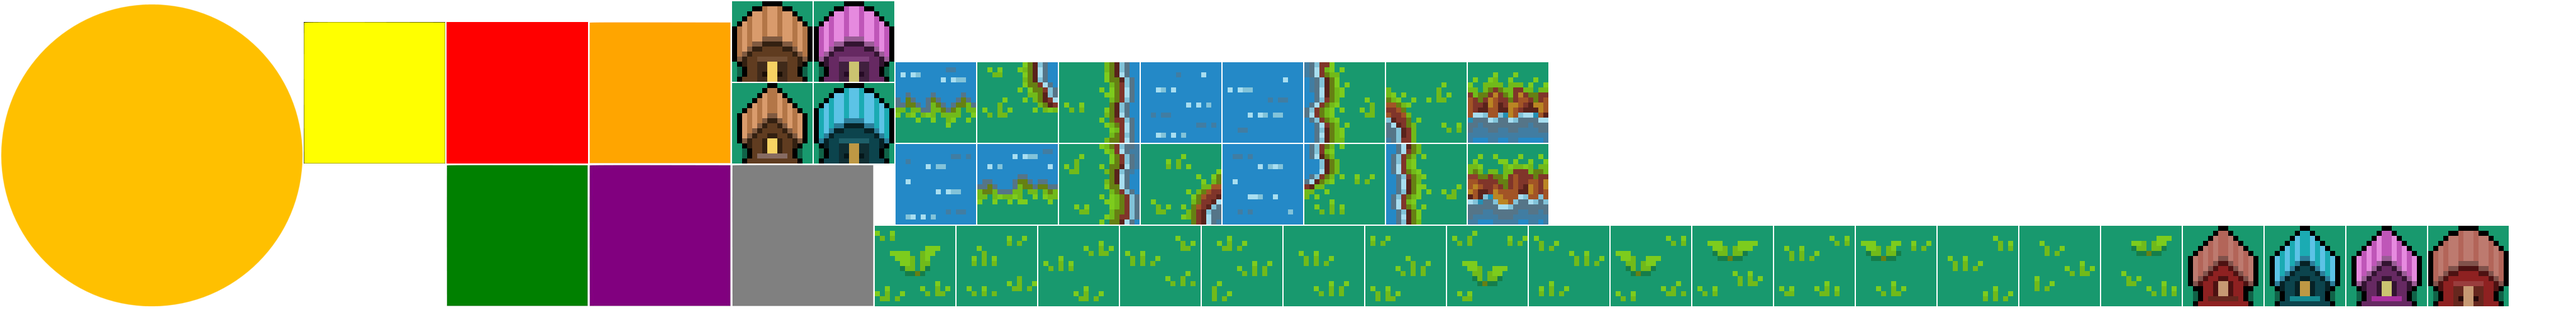
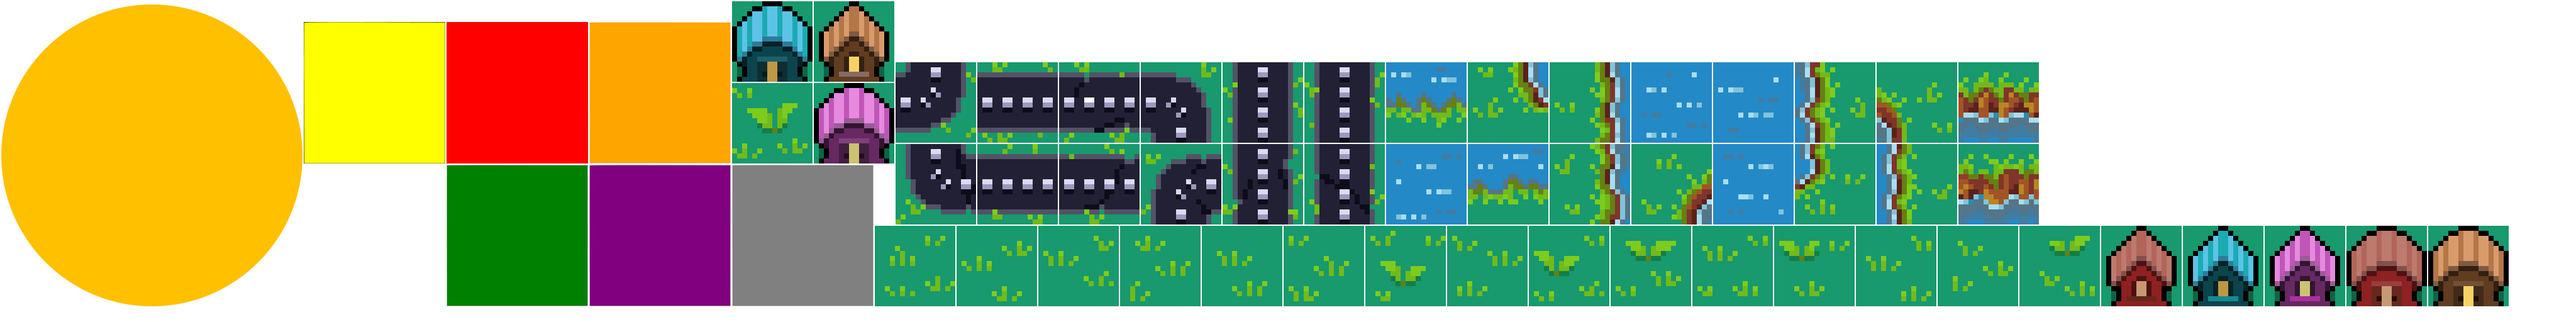
road tiles

Changed region(s): [[0.2812, 0.0, 0.9688, 0.9688]]

diff --git a/core/src/io/cucumber/storage/assets/CommonAssets.java b/core/src/io/cucumber/storage/assets/CommonAssets.java
@@ -21,8 +21,7 @@ public class CommonAssets {
     private final Map<LevelBlockType, Array<? extends TextureRegion>> areaTextures;
     private final Map<TimeEventType, TextureRegion> timeEventTextures;
 
-    public CommonAssets(TextureAtlas atlas, String roadUp, String roadDown, String roadLeft,
-                        String roadRight, String roadHorizontalRandom, String roadEnd, String land,
+    public CommonAssets(TextureAtlas atlas, String verticalRoad, String horizontalRoad, String land,
                         String landWaterTop, String landWaterBottom, String landWaterLeft,
                         String landWaterRight, String landWaterTopLeft, String landWaterTopRight,
                         String landWaterBottomLeft, String landWaterBottomRight, String water,
@@ -36,12 +35,12 @@ public class CommonAssets {
         this.timer = atlas.findRegion(timer);
         this.timerBackground = atlas.findRegion(timerBackground);
         this.areaTextures = new HashMap<>();
-        this.areaTextures.put(LevelBlockType.ROAD_UP, Array.with(atlas.findRegion(roadUp)));
-        this.areaTextures.put(LevelBlockType.ROAD_DOWN, Array.with(atlas.findRegion(roadDown)));
-        this.areaTextures.put(LevelBlockType.ROAD_LEFT, Array.with(atlas.findRegion(roadLeft)));
-        this.areaTextures.put(LevelBlockType.ROAD_RIGHT, Array.with(atlas.findRegion(roadRight)));
-        this.areaTextures.put(LevelBlockType.ROAD_HORIZONTAL_RAND, Array.with(atlas.findRegion(roadHorizontalRandom)));
-        this.areaTextures.put(LevelBlockType.ROAD_END, Array.with(atlas.findRegion(roadEnd)));
+        this.areaTextures.put(LevelBlockType.ROAD_UP, atlas.findRegions(verticalRoad));
+        this.areaTextures.put(LevelBlockType.ROAD_DOWN, atlas.findRegions(verticalRoad));
+        this.areaTextures.put(LevelBlockType.ROAD_LEFT, atlas.findRegions(horizontalRoad));
+        this.areaTextures.put(LevelBlockType.ROAD_RIGHT, atlas.findRegions(horizontalRoad));
+        this.areaTextures.put(LevelBlockType.ROAD_HORIZONTAL_RAND, atlas.findRegions(verticalRoad));
+        this.areaTextures.put(LevelBlockType.ROAD_END, atlas.findRegions(verticalRoad));
         this.areaTextures.put(LevelBlockType.LAND, atlas.findRegions(land));
         this.areaTextures.put(LevelBlockType.LAND_WATER_TOP, atlas.findRegions(landWaterTop));
         this.areaTextures.put(LevelBlockType.LAND_WATER_BOTTOM, atlas.findRegions(landWaterBottom));

diff --git a/core/src/io/cucumber/storage/assets/CommonAssetsStorage.java b/core/src/io/cucumber/storage/assets/CommonAssetsStorage.java
@@ -11,8 +11,8 @@ public class CommonAssetsStorage {
             return true;
         }
 
-        commonAssets = new CommonAssets(atlas, "road", "road", "road", "road", "road", "road",
-                "grass_part", "water_top_part", "water_bottom_part", "water_left_part", "water_right_part",
+        commonAssets = new CommonAssets(atlas, "road_vertical_part", "road_horizontal_part", "grass_part",
+                "water_top_part", "water_bottom_part", "water_left_part", "water_right_part",
                 "water_left_top", "water_right_top", "water_left_bottom", "water_right_bottom",
                 "water_part", "house_part", "zone", "menu_background", "health",
                 "health_background", "timer", "timer_background", "generate_enemy",
